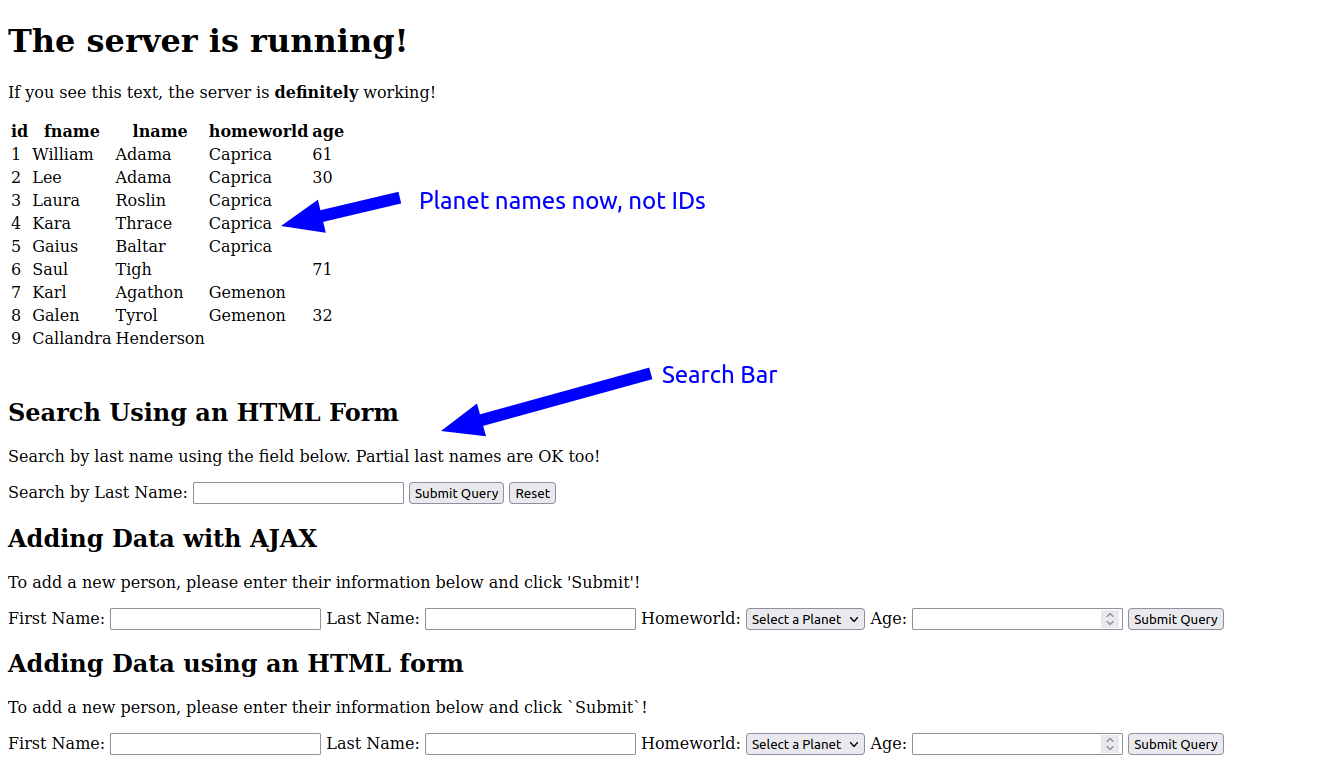
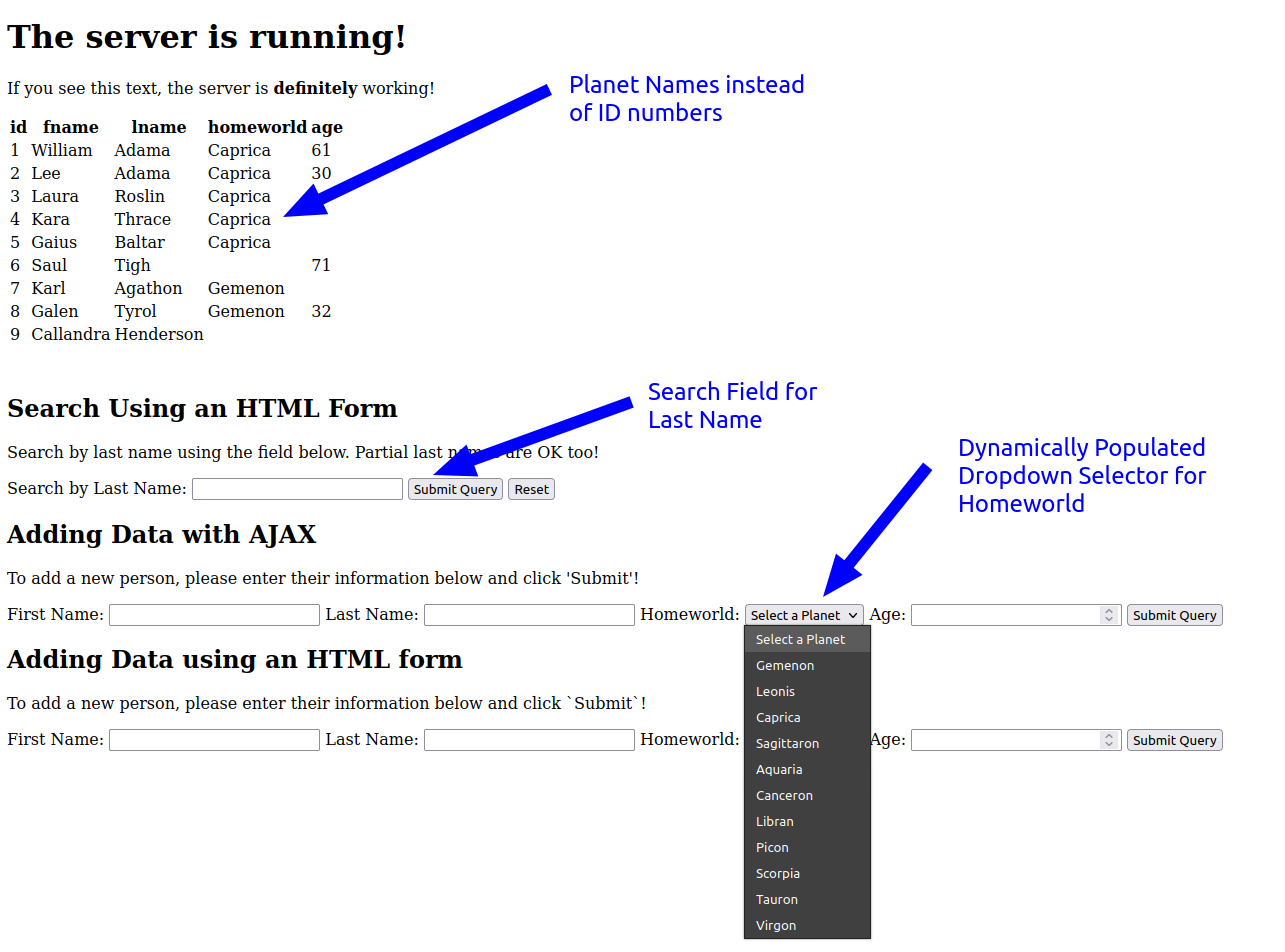
finished proofing

diff --git a/Step 6 - Dynamically Filling Dropdowns and Adding a Search Box/README.md b/Step 6 - Dynamically Filling Dropdowns and Adding a Search Box/README.md
@@ -2,7 +2,7 @@
 
 Seems complicated, but really it's the matter of executing one extra query before we render our webpage. This section will show you how to populate a dropdown `<select>` HTML element with meaningful values for Planets instead of just having the user manually type in the ID of the Planet. 
 
-We will also cover adding a search feature to the page so that you can filter the results in your table.
+We will also cover adding a search feature to the page so that you can filter the results in your table and an extra bonus to make your data more meaningful.
 
 # Dynamic Dropdown
 
@@ -331,3 +331,5 @@ At this point, you should have developed a fairly comfortable handle using these
 We added drop-down menus that are dynamically populated, we added a search function to our page, and as a bonus, we replaced opaque `ids` of Planets with their actual names. And the end result is definitely an improvement for the user and their experience.
 
 ![bsg-people complete with textual planet ids and search](./assets/search-box-function.gif)
+
+![bsg-people complete with textual planet ids and search picture](./assets/search-and-dynamic-final.png)
